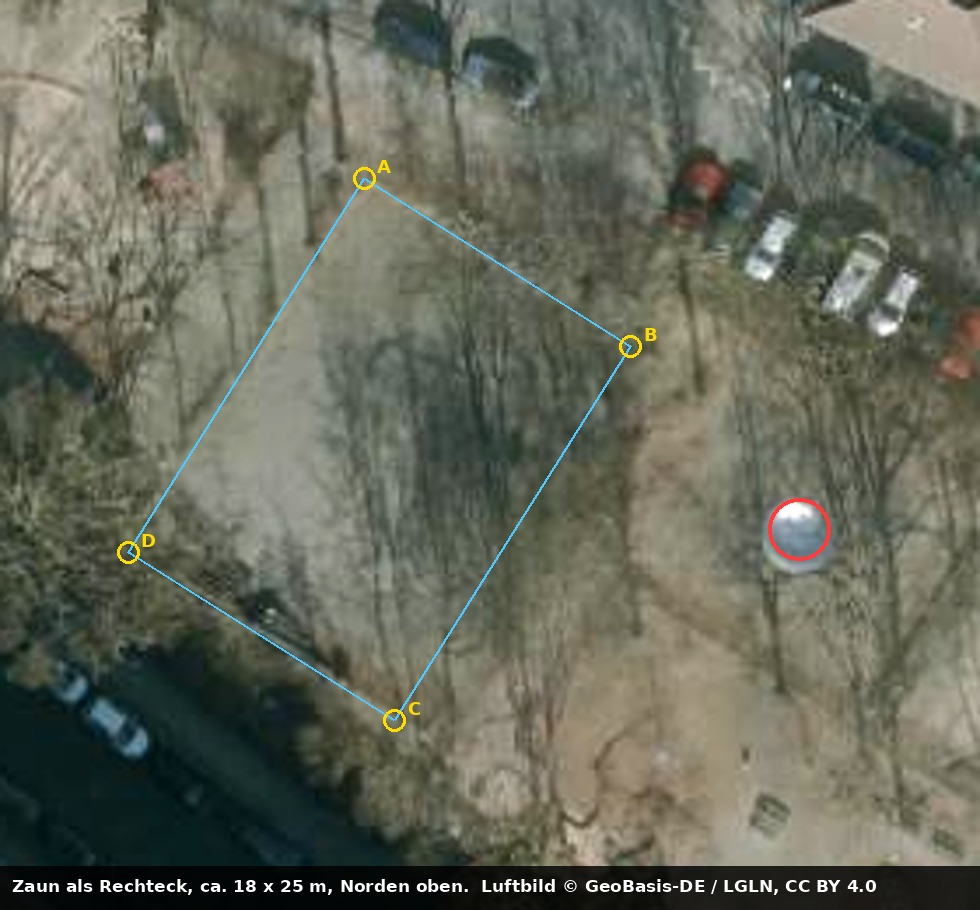
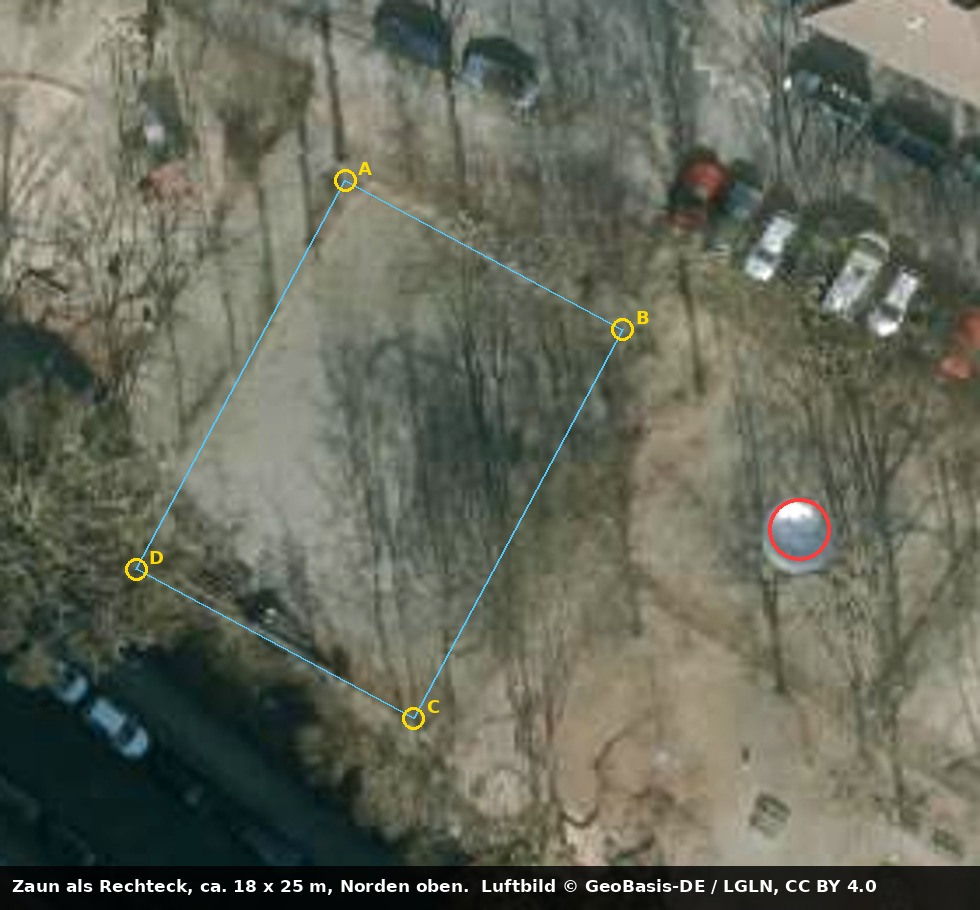
Boni site: court rectangle rotated slightly so the east corner moves north
Claude-Session: https://claude.ai/code/session_012w45xmR5wK2jym8RrJZRMa

diff --git a/docs/BONI_ORT.md b/docs/BONI_ORT.md
@@ -37,10 +37,10 @@ Bild: `docs/ort/boni_bolzplatz_grundriss.jpg` (Luftbild © GeoBasis-DE / LGLN, C
 
 - **Form:** Rechteck, eingezäunt. Die linke Seite folgt dem Rand der hellen Asphaltfläche (zum Nilpferd-Sandplatz), die untere Seite der Zaunlinie entlang der Hecke an der Straße, die obere Seite der Kante zur Straße mit den Parkplätzen.
 - **Größe:** ca. 18 m (Seite oben) × 25 m (Seite links), Messgenauigkeit etwa ±1 m; im Winterbild verdecken Astschatten den Rand.
-- **Ausrichtung:** Die Seiten sind um ca. 32° gegen die Nord-Süd- und Ost-West-Achse gedreht, also etwa parallel zu den umliegenden Straßen.
+- **Ausrichtung:** Die Seiten sind um ca. 28° gegen die Nord-Süd- und Ost-West-Achse gedreht, also etwa parallel zu den umliegenden Straßen.
 - **Ecken (WGS84, Breite/Länge):**
-  - A Nord: 52.389139 / 9.744629
-  - B Ost: 52.389053 / 9.744853
-  - C Süd: 52.388861 / 9.744655
-  - D West: 52.388948 / 9.744431
+  - A Nord: 52.389138 / 9.744614
+  - B Ost: 52.389062 / 9.744847
+  - C Süd: 52.388862 / 9.744671
+  - D West: 52.388939 / 9.744438
 - **Umgebung:** links (Nordwest) der Sandspielplatz mit Holz-Nilpferd, rechts (Südost) hinter Mulchstreifen die Metallschale, oben die Straße mit Schrägparkern und Altbauten, unten links Hecke und Straße.
